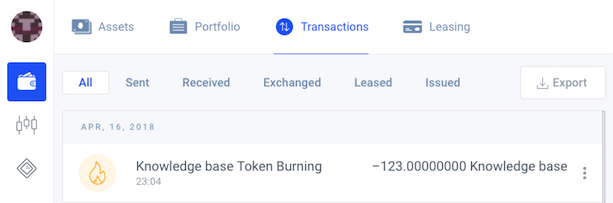
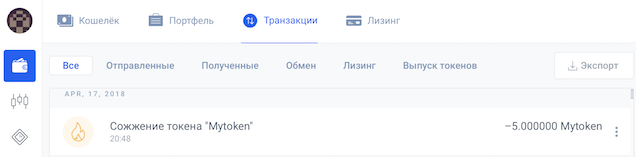
Updates

diff --git a/ru/waves-client/assets-management/burn-an-asset.md b/ru/waves-client/assets-management/burn-an-asset.md
@@ -1,30 +1,27 @@
-# How to burn issued Token
+# **Как сжечь выпущенный Токен**.
 
-Open up your Waves wallet.
+Откройте свой Waves кошелёк и войдите во вкладку Портфель.
 
-Go to the Portfolio.
+![](/ru/_assets/token_burn_01.png)
 
-![](/_assets/token_burn_01.png)
+Найдите свой выпущеный Токен и нажмите на кнопку ![](/ru/_assets/token_burn_02.png).
 
-Find issued token and click on the ![](/_assets/token_burn_02.png) button.
+Затем нажмите на кнопку **Сжечь токен**.
 
-Click on the **Token Burn** button.
+![](/ru/_assets/token_burn_03.png)
 
-![](/_assets/token_burn_03.png)
+После этого появится следующее окно:
 
-The following window will appear.
+![](/ru/_assets/token_burn_04.jpeg)
 
-![](/_assets/token_burn_04.png)
+Введите количество сжигаемых токенов и нажмите на кнопку **Продолжить**.
 
-Choose the required number of burning tokens and click on the **Continue** button.
+![](/ru/_assets/token_burn_05.jpeg)
 
-![](/_assets/token_burn_05.png)
+В появившемся окне проверьте введённую информацию и нажмите на кнопку **Подтвердить**.
 
-The following window will appear.
-Check the entered data and if everything is ok, click on the **Confirm** button.
+![](/ru/_assets/token_burn_06.jpeg)
 
-![](/_assets/token_burn_06.png)
+После этого Транзакция сжигания токенов отобразится во вкладке **Транзакции**.
 
-After all you will be able to find the reissue transaction in your **Transactions**.
-
-![](/_assets/token_burn_07.png)
+![](/ru/_assets/token_burn_07.png)
